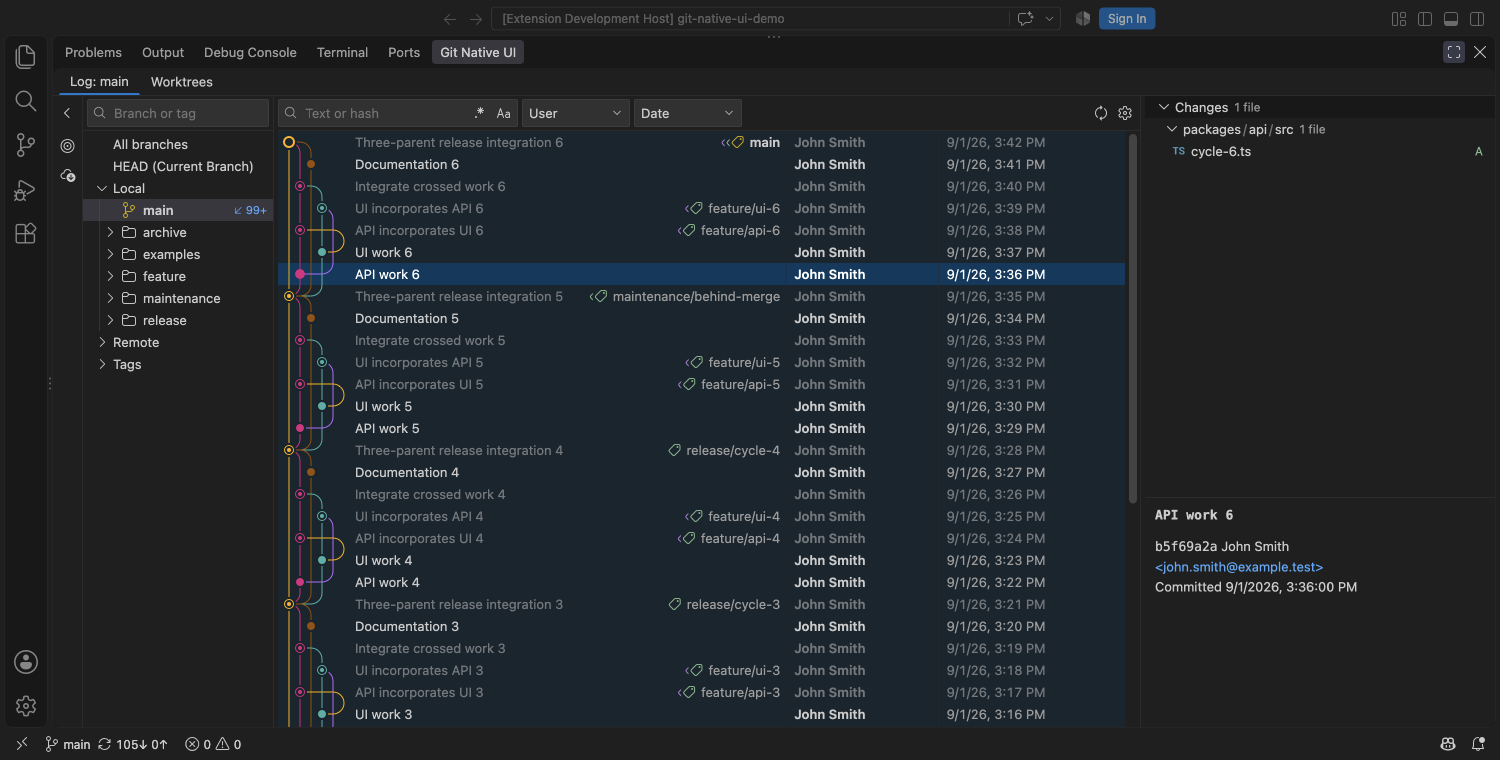
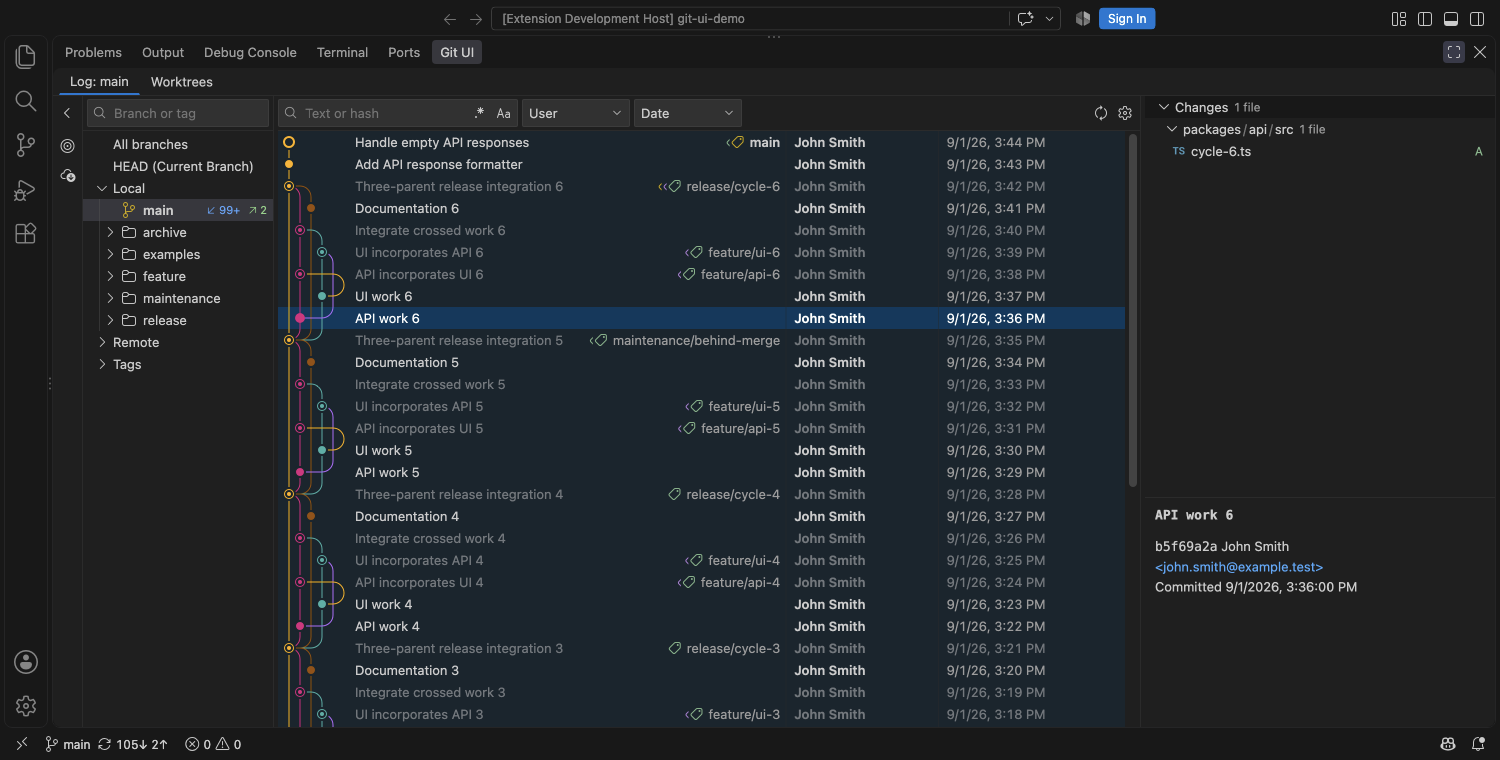
fix: use Git UI branding and the new Marketplace identifier

diff --git a/src/extension/panel/provider.ts b/src/extension/panel/provider.ts
@@ -68,7 +68,7 @@ export class GitNativeUIProvider implements vscode.WebviewViewProvider {
     value: unknown,
   ): Promise<void> {
     if (!this.menuAction)
-      throw new Error('Open Git Native UI and select a branch first.');
+      throw new Error('Open Git UI and select a branch first.');
     await this.menuAction(kind, value);
   }
 
@@ -77,7 +77,7 @@ export class GitNativeUIProvider implements vscode.WebviewViewProvider {
     value: unknown,
   ): Promise<void> {
     if (!this.commitMenuAction)
-      throw new Error('Open Git Native UI and select a commit first.');
+      throw new Error('Open Git UI and select a commit first.');
     await this.commitMenuAction(kind, value);
   }
 
@@ -289,9 +289,7 @@ export class GitNativeUIProvider implements vscode.WebviewViewProvider {
       const request = branchMenuRequest(kind, value);
 
       if (!request)
-        throw new Error(
-          'Select a branch in Git Native UI before using this action.',
-        );
+        throw new Error('Select a branch in Git UI before using this action.');
       initializing ??= initialize();
       await (await initializing).handle(request);
     };
@@ -301,9 +299,7 @@ export class GitNativeUIProvider implements vscode.WebviewViewProvider {
       const request = commitMenuRequest(kind, value);
 
       if (!request)
-        throw new Error(
-          'Select a commit in Git Native UI before using this action.',
-        );
+        throw new Error('Select a commit in Git UI before using this action.');
       initializing ??= initialize();
       await (await initializing).handle(request);
     };
@@ -330,7 +326,7 @@ export class GitNativeUIProvider implements vscode.WebviewViewProvider {
           vscode.window.showErrorMessage(
             error instanceof Error
               ? error.message
-              : 'Git Native UI initialization failed.',
+              : 'Git UI initialization failed.',
             'Dismiss',
           ),
         );

diff --git a/scripts/package/verify.ts b/scripts/package/verify.ts
@@ -16,7 +16,7 @@ const allowed = new Set([
   'extension/changelog.md',
   'extension/LICENSE.txt',
   'extension/THIRD_PARTY_NOTICES.md',
-  'extension/assets/git-native-ui.svg',
+  'extension/assets/git-ui-native.svg',
   'extension/assets/marketplace-icon.png',
   'extension/dist/extension.cjs',
   'extension/dist/squash-helper.cjs',
@@ -125,8 +125,8 @@ export function verifyReleaseManifest(manifest: unknown): void {
   assert.ok(isRecord(manifest), 'Invalid release manifest');
   assert.equal(
     manifest.name,
-    'git-native-ui',
-    'Release extension name must be git-native-ui',
+    'git-ui-native',
+    'Release extension name must be git-ui-native',
   );
   assert.equal(
     manifest.publisher,
@@ -153,18 +153,18 @@ export function verifyReleaseManifest(manifest: unknown): void {
     manifest.repository,
     {
       type: 'git',
-      url: 'https://github.com/andreymyssak/vscode-git-native-ui.git',
+      url: 'https://github.com/andreymyssak/vscode-git-ui.git',
     },
     'Release repository must identify the intended personal source repository',
   );
   assert.equal(
     manifest.homepage,
-    'https://github.com/andreymyssak/vscode-git-native-ui#readme',
+    'https://github.com/andreymyssak/vscode-git-ui#readme',
     'Release homepage must link to project documentation',
   );
   assert.equal(
     isRecord(manifest.bugs) ? manifest.bugs.url : undefined,
-    'https://github.com/andreymyssak/vscode-git-native-ui/issues',
+    'https://github.com/andreymyssak/vscode-git-ui/issues',
     'Release bugs URL must identify the issue tracker',
   );
   assert.ok(
@@ -458,5 +458,5 @@ if (
   import.meta.url === pathToFileURL(resolve(process.argv[1])).href
 )
   await verifyPackage(
-    resolve(process.argv[2] ?? '.artifacts/git-native-ui.vsix'),
+    resolve(process.argv[2] ?? '.artifacts/git-ui-native.vsix'),
   );

diff --git a/test/vscode/package.test.ts b/test/vscode/package.test.ts
@@ -12,7 +12,7 @@ import { createFixture } from '../fixtures/repository';
 describe('private package', () => {
   it('registered extension activates on the tested VS Code runtime', async () => {
     const extension = vscode.extensions.getExtension(
-      'andreymyssak.git-native-ui',
+      'andreymyssak.git-ui-native',
     );
 
     assert.ok(extension);
@@ -30,7 +30,7 @@ describe('private package', () => {
       );
     }
 
-    assert.equal(extension.packageJSON.displayName, 'Git Native UI');
+    assert.equal(extension.packageJSON.displayName, 'Git UI');
     assert.equal(
       extension.packageJSON.contributes.viewsContainers.panel[0].title,
       extension.packageJSON.displayName,
@@ -51,7 +51,7 @@ describe('private package', () => {
 
     assert.ok(workbench);
     await expect(
-      workbench.getByRole('tab', { name: 'Git Native UI', exact: true }),
+      workbench.getByRole('tab', { name: 'Git UI', exact: true }),
     ).toBeVisible();
   });
   if (process.env.GIT_NATIVE_UI_INSTALLED_ROOT)

diff --git a/test/vscode/commit-menu.test.ts b/test/vscode/commit-menu.test.ts
@@ -31,7 +31,7 @@ describe('native squash menu workflow', () => {
         vscode.ConfigurationTarget.Global,
       );
       const extension = vscode.extensions.getExtension(
-        'andreymyssak.git-native-ui',
+        'andreymyssak.git-ui-native',
       );
 
       assert.ok(extension);
@@ -382,7 +382,7 @@ describe('native squash menu workflow', () => {
       assert.equal(object.slice(object.indexOf('\n\n') + 2), approved);
       assert.equal(await fixture.runGit(['status', '--porcelain=v1']), '');
       const extension = vscode.extensions.all.find(
-        (entry) => entry.packageJSON.name === 'git-native-ui',
+        (entry) => entry.packageJSON.name === 'git-ui-native',
       )!;
       const helper = join(extension.extensionPath, 'dist', 'squash-helper.cjs');
       const helperLocation = relative(extension.extensionPath, helper);

diff --git a/src/extension/panel/controller.ts b/src/extension/panel/controller.ts
@@ -195,9 +195,7 @@ export class PanelController {
       .find((repo) => repo.id === id);
 
     if (!repository)
-      throw new Error(
-        'Repository is no longer available. Refresh Git Native UI.',
-      );
+      throw new Error('Repository is no longer available. Refresh Git UI.');
 
     return repository;
   }
@@ -573,7 +571,7 @@ export class PanelController {
         result.kind === 'cancelled'
       )
         await this.options.reportActionError?.(
-          'The history operation was cancelled because the Git Native UI context changed. The commits were left unchanged.',
+          'The history operation was cancelled because the Git UI context changed. The commits were left unchanged.',
         );
       if (rewritesHistory) {
         if (

diff --git a/test/vscode/acceptance/branch-update.scenario.ts b/test/vscode/acceptance/branch-update.scenario.ts
@@ -13,7 +13,7 @@ import { nativeBrowser } from '../../fixtures/native-panel';
 // commands and native notifications in a normal, isolated workbench.
 export async function run() {
   const extension = vscode.extensions.all.find(
-    (entry) => entry.packageJSON.name === 'git-native-ui',
+    (entry) => entry.packageJSON.name === 'git-ui-native',
   );
 
   assert.ok(extension);
@@ -211,7 +211,7 @@ export async function run() {
             {},
           );
           const error = workbench.getByRole('dialog', {
-            name: 'Error: Select a branch in Git Native UI before using this action.',
+            name: 'Error: Select a branch in Git UI before using this action.',
           });
 
           await expect(error).toBeVisible();

diff --git a/scripts/test/run-vscode-tests.ts b/scripts/test/run-vscode-tests.ts
@@ -157,7 +157,7 @@ if (prepared.kind === 'restricted') {
     process.platform === 'win32' ? `"${cli}"` : cli,
     [
       '--install-extension',
-      resolve('.artifacts/git-native-ui.vsix'),
+      resolve('.artifacts/git-ui-native.vsix'),
       '--extensions-dir',
       extensions,
       '--user-data-dir',
@@ -181,7 +181,7 @@ if (prepared.kind === 'restricted') {
   writeFileSync(
     join(driver, 'package.json'),
     JSON.stringify({
-      name: 'git-native-ui-installed-test-driver',
+      name: 'git-ui-native-installed-test-driver',
       publisher: 'local-fixture',
       version: '0.0.0',
       engines: { vscode: '^1.140.0' },

diff --git a/test/vscode/activation.test.ts b/test/vscode/activation.test.ts
@@ -23,7 +23,7 @@ describe('native capabilities', () => {
     for (const root of roots)
       await access.api.openRepository(vscode.Uri.file(root.root));
     const extension = vscode.extensions.getExtension(
-      'andreymyssak.git-native-ui',
+      'andreymyssak.git-ui-native',
     );
 
     assert.ok(extension);
@@ -65,7 +65,7 @@ describe('native capabilities', () => {
 
     assert.ok(workbench);
     await expect(
-      workbench.getByRole('tab', { name: 'Git Native UI', exact: true }),
+      workbench.getByRole('tab', { name: 'Git UI', exact: true }),
     ).toBeVisible();
   });
   it('native diff uses revision URIs', async () => {

diff --git a/test/vscode/squash-runtime.test.ts b/test/vscode/squash-runtime.test.ts
@@ -41,12 +41,12 @@ describe('squash helper on the installed VS Code runtime', () => {
       'must exercise VS Code Electron, not a development Node executable',
     );
     const extension = vscode.extensions.all.find(
-      (candidate) => candidate.packageJSON.name === 'git-native-ui',
+      (candidate) => candidate.packageJSON.name === 'git-ui-native',
     );
 
     assert.ok(
       extension,
-      'Git Native UI extension must be installed in this test host',
+      'Git UI extension must be installed in this test host',
     );
     const packagedHelper = join(
       extension.extensionPath,

diff --git a/scripts/test/installed-actions.ts b/scripts/test/installed-actions.ts
@@ -57,13 +57,13 @@ export async function runInstalledActions({
   writeFileSync(
     join(driver, 'package.json'),
     JSON.stringify({
-      name: 'git-native-ui-installed-actions-driver',
+      name: 'git-ui-native-installed-actions-driver',
       publisher: 'local-fixture',
       version: '0.0.0',
       engines: { vscode: '^1.140.0' },
       main: './extension.cjs',
       activationEvents: ['onStartupFinished'],
-      extensionDependencies: ['andreymyssak.git-native-ui'],
+      extensionDependencies: ['andreymyssak.git-ui-native'],
     }),
   );
   writeFileSync(

diff --git a/test/fixtures/native-panel.ts b/test/fixtures/native-panel.ts
@@ -9,11 +9,10 @@ declare global {
 }
 export async function nativeBrowser(): Promise<Browser> {
   const extension = vscode.extensions.getExtension(
-    'andreymyssak.git-native-ui',
+    'andreymyssak.git-ui-native',
   );
 
-  if (!extension)
-    throw new Error('Git Native UI is not installed in the test host.');
+  if (!extension) throw new Error('Git UI is not installed in the test host.');
   await extension.activate();
   globalThis.gitNativeUINativeTestBrowser ??= await chromium.connectOverCDP(
     `http://127.0.0.1:${process.env.VSCODE_TEST_DEBUG_PORT ?? ''}`,

diff --git a/src/extension/git/branch-deletion.ts b/src/extension/git/branch-deletion.ts
@@ -111,7 +111,7 @@ export async function deleteBranches(
   try {
     await access.repository(id).status();
   } catch {
-    refresh = ' Git Native UI could not refresh. Use Refresh to reload it.';
+    refresh = ' Git UI could not refresh. Use Refresh to reload it.';
   }
 
   const message = `${deleted.length ? `Deleted ${deleted.length} branch${deleted.length === 1 ? '' : 'es'}.` : 'No branches were deleted.'}${failures.length ? ` Could not delete: ${failures.join('; ')}` : ''}${refresh}`;
